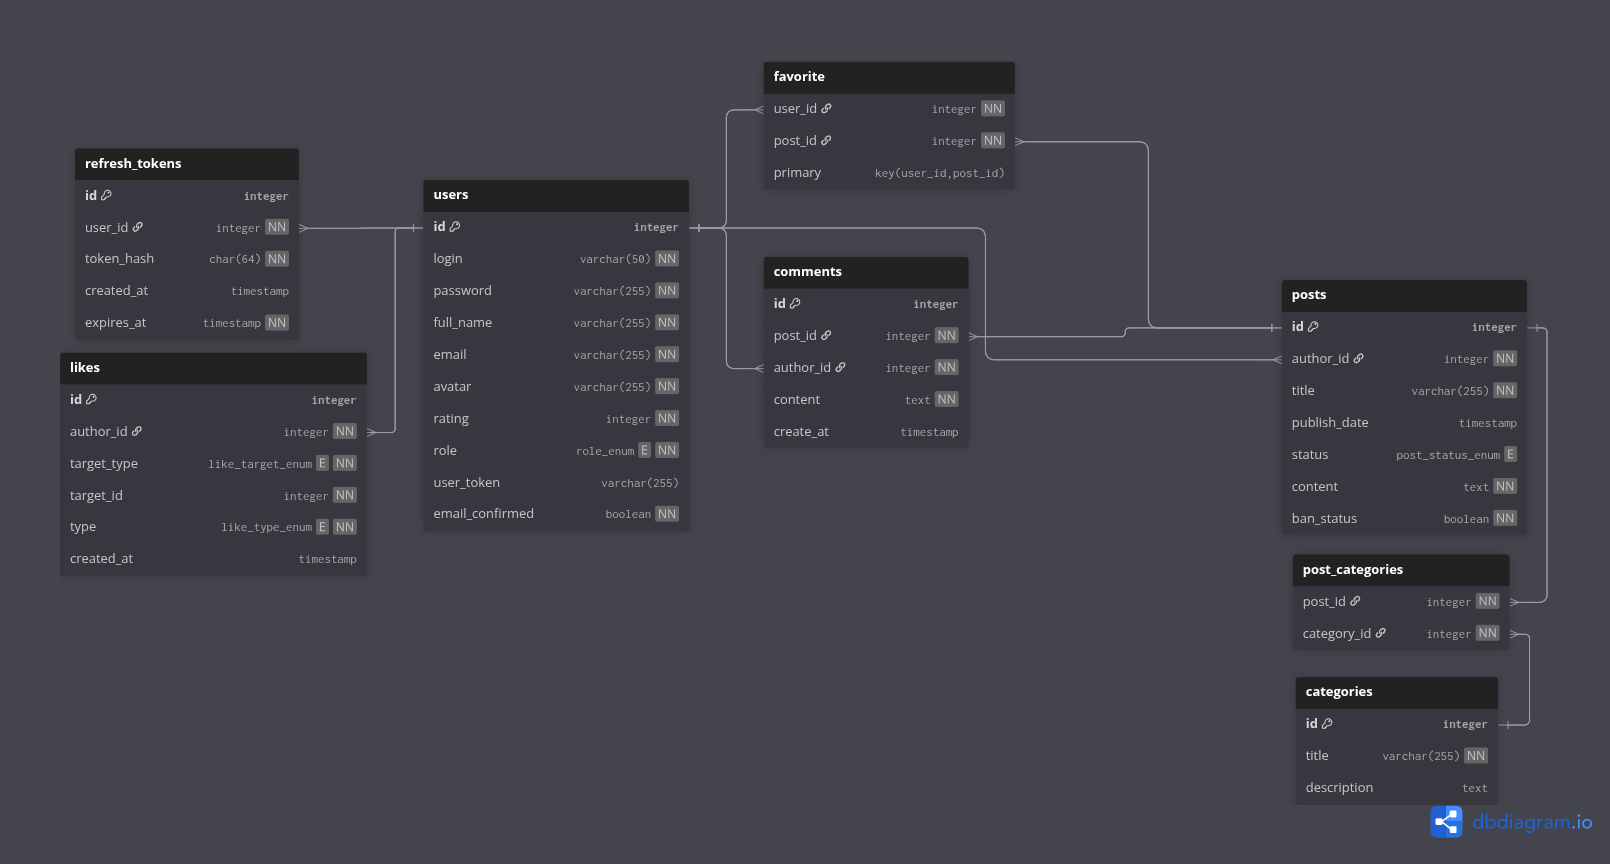
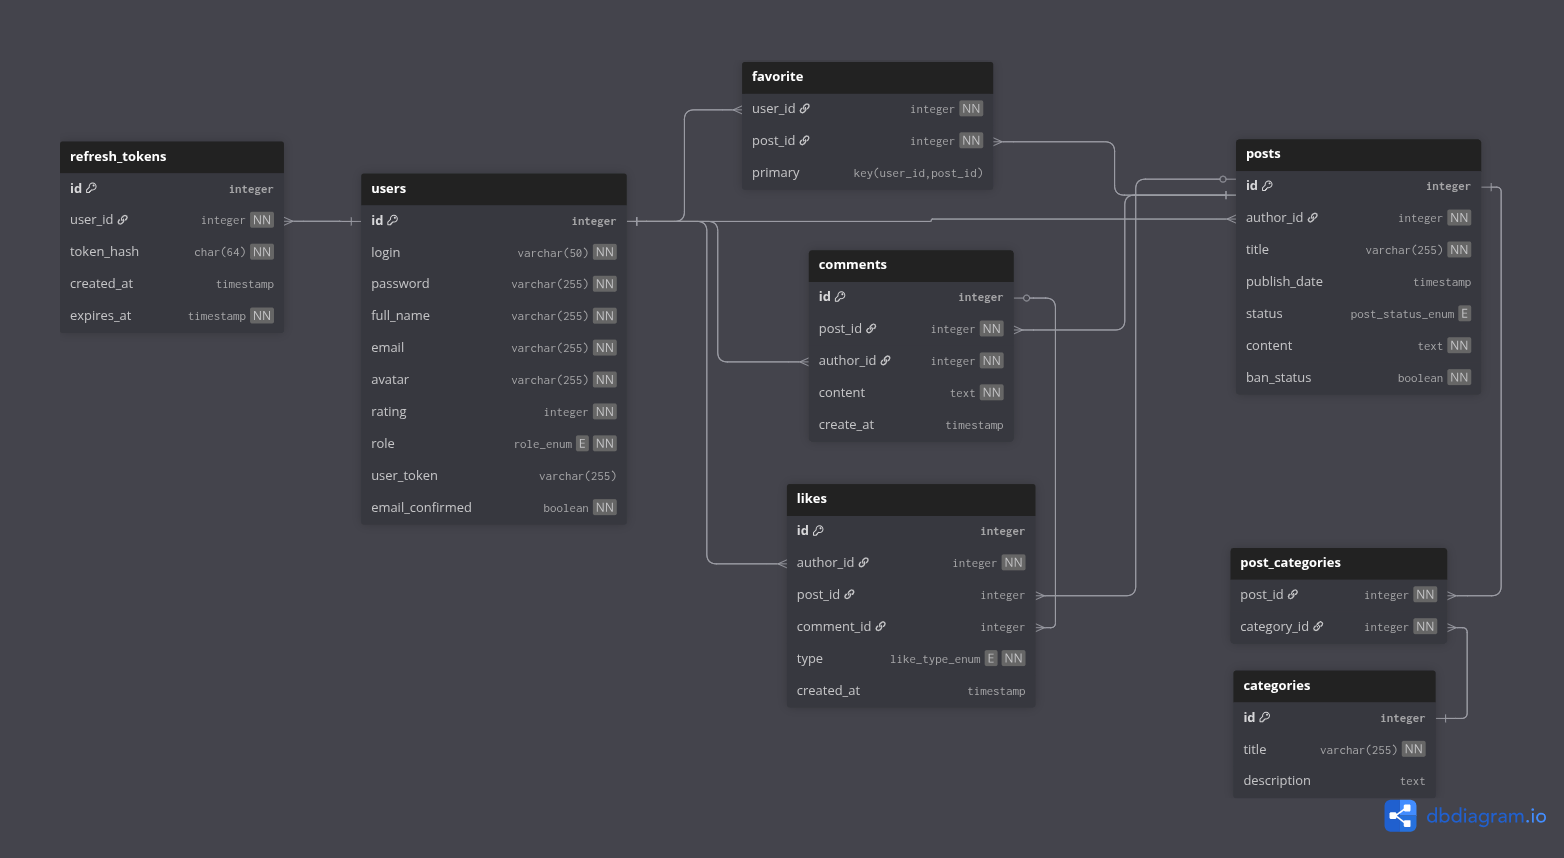
likes fix

diff --git a/controllers/post.js b/controllers/post.js
@@ -144,13 +144,9 @@ const post_controller = {
         } 
     },
 
-    get_likes : async(req, res) => {
+    get_likes: async (req, res) => {
         try {
-            const likeData = {
-                target_id: req.params.post_id,
-                target_type: "post"
-            }
-            const likes = await LikesService.getAllLikes(likeData);
+            const likes = await LikesService.getAllLikes({ post_id: req.params.post_id });
             return res.status(200).json({
                 status: "Success",
                 likes
@@ -226,18 +222,16 @@ const post_controller = {
         }
     },
 
-    post_like : async (req, res) => {
+    post_like: async (req, res) => {
         try {
             const likeData = {
                 ...req.validated,
                 author_id: req.user.userId,
-                target_type: "post",
-                target_id: req.params.post_id
+                post_id: Number(req.params.post_id),
+                comment_id: null
             };
-            await LikesService.postLike(likeData)
-            return res.status(201).json({
-                status: "Success",
-            });
+            await LikesService.postLike(likeData);
+            return res.status(201).json({ status: "Success" });
         } catch(err) {
             return res.status(400).json({
                 status: "Fail",
@@ -304,14 +298,13 @@ const post_controller = {
         }
     },
 
-    delete_like : async (req, res) => {
+    delete_like: async (req, res) => {
         try {
-            const likeData = {
+            await LikesService.deleteLike({
                 author_id: req.user.userId,
-                target_type: "post",
-                target_id: req.params.post_id
-            }
-            await LikesService.deleteLike(likeData);
+                post_id: Number(req.params.post_id),
+                comment_id: null
+            });
             return res.status(204).send();
         } catch(err) {
             return res.status(400).json({

diff --git a/controllers/comments.js b/controllers/comments.js
@@ -19,11 +19,7 @@ const comments_controller = {
 
     get_like: async(req, res) => {
         try {
-            const likeData = {
-                target_id: req.params.comment_id,
-                target_type: "comment"
-            }
-            const likes = await LikesService.getAllLikes(likeData);
+            const likes = await LikesService.getAllLikes({ comment_id: req.params.comment_id });
             return res.status(200).json({
                 status: "Success",
                 likes
@@ -42,11 +38,11 @@ const comments_controller = {
             const likeData = {
                 ...req.validated,
                 author_id: req.user.userId,
-                target_type: "comment",
-                target_id: req.params.comment_id
+                post_id: null,
+                comment_id: Number(req.params.comment_id)
             };
-            await LikesService.postLike(likeData)
-            res.status(201).json({status: "Success"})
+            await LikesService.postLike(likeData);
+            res.status(201).json({status: "Success"});
         } catch(err) {
             return res.status(400).json({
                 status: "Fail",
@@ -85,14 +81,13 @@ const comments_controller = {
         }
     },
     
-    delete_like : async (req, res) => {
+    delete_like: async (req, res) => {
         try {
-            const likeData = {
+            await LikesService.deleteLike({
                 author_id: req.user.userId,
-                target_type: "comment",
-                target_id: req.params.comment_id
-            }
-            await LikesService.deleteLike(likeData);
+                post_id: null,
+                comment_id: Number(req.params.comment_id)
+            });
             return res.status(204).send();
         } catch(err) {
             return res.status(400).json({

diff --git a/services/likesService.js b/services/likesService.js
@@ -5,17 +5,28 @@ const LikesService = {
         return await LikesModel.create(data);
     },
 
-    async getAllLikes(data) {
-        return await LikesModel.find(data)
+    async getAllLikes({ post_id, comment_id }) {
+        if (post_id) {
+            return await LikesModel.find({ post_id });
+        } else if (comment_id) {
+            return await LikesModel.find({ comment_id });
+        }
+        throw new Error("Either post_id or comment_id must be provided.");
     },
 
-    async deleteLike({ author_id, target_type, target_id }) {
-        const likes = await LikesModel.find({ author_id, target_type, target_id });
+    async deleteLike({ author_id, post_id, comment_id }) {
+        let likes;
+        if (post_id) {
+            likes = await LikesModel.find({ author_id, post_id });
+        } else if (comment_id) {
+            likes = await LikesModel.find({ author_id, comment_id });
+        } else {
+            throw new Error("Either post_id or comment_id must be provided.");
+        }
         if (!likes.length) {
             throw new Error("Like not found for this user.");
         }
-
-        await LikesModel.deleteLike(author_id ,target_id, target_type);
+        await LikesModel.deleteLike(author_id, post_id, comment_id);
     }
 };
 

diff --git a/schemas/likeSchema.js b/schemas/likeSchema.js
@@ -3,16 +3,24 @@ import { z } from "zod";
 export const LikeSchema = z.object({
     id: z.number().optional(),
     author_id: z.number().optional(),
-    target_type: z.enum(["post", "comment"]).optional(),
-    target_id: z.coerce.number().optional(),
+    post_id: z.number().nullable().optional(),
+    comment_id: z.number().nullable().optional(),
     type: z.enum(["like", "dislike"]),
     created_at: z.date().optional(),
-});
+}).refine(
+    (data) =>
+        (data.post_id && !data.comment_id) ||
+        (!data.post_id && data.comment_id),
+    {
+        message: "Either post_id or comment_id must be set, but not both.",
+        path: ["post_id", "comment_id"],
+    }
+);
 
 const LikeCreateSchema = LikeSchema.pick({
     author_id: true,
-    target_type: true,
-    target_id: true,
+    post_id: true,
+    comment_id: true,
     type: true,
 });
 

diff --git a/models/LikesModel.js b/models/LikesModel.js
@@ -6,8 +6,14 @@ import { createBaseModel } from "./BaseModel.js";
 const LikesModel = {
     ...createBaseModel("likes", mysql_pool, likeSchema),
 
-    async deleteLike(author_id, target_id, target_type) {
-        await mysql_pool.execute(LIKE_QUERIES.DELETE, [author_id, target_id, target_type]);
+    async deleteLike(author_id, post_id = null, comment_id = null) {
+        if (post_id) {
+            await mysql_pool.execute(LIKE_QUERIES.DELETE_BY_POST, [author_id, post_id]);
+        } else if (comment_id) {
+            await mysql_pool.execute(LIKE_QUERIES.DELETE_BY_COMMENT, [author_id, comment_id]);
+        } else {
+            throw new Error("Either post_id or comment_id must be provided.");
+        }
     },
 };
 

diff --git a/models/PostModel.js b/models/PostModel.js
@@ -97,7 +97,7 @@ const PostModel = {
         }
 
         if (this._isLikeBasedOrdering(orderBy)) {
-            joins.push(`LEFT JOIN likes l ON l.target_id = p.id AND l.target_type = 'post'`);
+            joins.push(`LEFT JOIN likes l ON l.post_id = p.id`);
             selectColumns.push(`
                 SUM(CASE WHEN l.type = 'like' THEN 1 ELSE 0 END) AS like_count,
                 SUM(CASE WHEN l.type = 'dislike' THEN 1 ELSE 0 END) AS dislike_count,

diff --git a/db/queries/like_queries.js b/db/queries/like_queries.js
@@ -1,3 +1,4 @@
 export const LIKE_QUERIES = {
-    DELETE: `DELETE FROM likes WHERE author_id = ? AND target_id = ? AND target_type = ?`,
+    DELETE_BY_POST: `DELETE FROM likes WHERE author_id = ? AND post_id = ?`,
+    DELETE_BY_COMMENT: `DELETE FROM likes WHERE author_id = ? AND comment_id = ?`,
 };

diff --git a/docs/DOCUMENTATION.md b/docs/DOCUMENTATION.md
@@ -167,18 +167,23 @@ Composite PK: (post_id, category_id) ensures a post can’t be linked twice to t
 
 ### `likes`
 
-| Field       | Type                   | Null | Key | Default           | Extra          | Description                                |
-|-------------|------------------------|------|-----|-------------------|----------------|--------------------------------------------|
-| id          | int                    | NO   | PRI | auto_increment    |                | Unique like ID                             |
-| author_id   | int                    | NO   | MUL | NULL              |                | FK → users.id                              |
-| target_type | enum('post','comment') | NO   |     | NULL              |                | Type of target (post or comment)           |
-| target_id   | int                    | NO   |     | NULL              |                | ID of the target entity                    |
-| type        | enum('like','dislike') | NO   |     | NULL              |                | Reaction type                              |
-| created_at  | timestamp              | YES  |     | CURRENT_TIMESTAMP | DEFAULT_GEN    | Date of reaction                           |
-
-Unique constraint: `(author_id, target_type, target_id)` ensures one reaction per user per target.
+| Field      | Type                   | Null | Key | Default           | Extra             | Description                                                                 |
+|------------|------------------------|------|-----|-------------------|-------------------|-----------------------------------------------------------------------------|
+| id         | int                    | NO   | PRI | NULL              | auto_increment    | Unique like ID                                                              |
+| author_id  | int                    | NO   | MUL | NULL              |                   | FK → `users.id` (the user who reacted)                                      |
+| post_id    | int                    | YES  | MUL | NULL              |                   | FK → `posts.id` (nullable, set if the reaction is on a post)                |
+| comment_id | int                    | YES  | MUL | NULL              |                   | FK → `comments.id` (nullable, set if the reaction is on a comment)          |
+| type       | enum('like','dislike') | NO   |     | NULL              |                   | Reaction type                                                               |
+| created_at | timestamp              | YES  |     | CURRENT_TIMESTAMP | DEFAULT_GENERATED | Date and time when the reaction was created                                 |
 
 ---
+
+#### Constraints
+- One of **`post_id`** or **`comment_id`** must be non-NULL (reaction belongs to either a post or a comment, not both).  
+- Unique constraint: **(author_id, post_id)** → one reaction per user per post.  
+- Unique constraint: **(author_id, comment_id)** → one reaction per user per comment.  
+- **ON DELETE CASCADE** recommended on both `post_id` and `comment_id` FKs so likes are removed when their target is deleted.
+
 
 ### `favorite`
 
